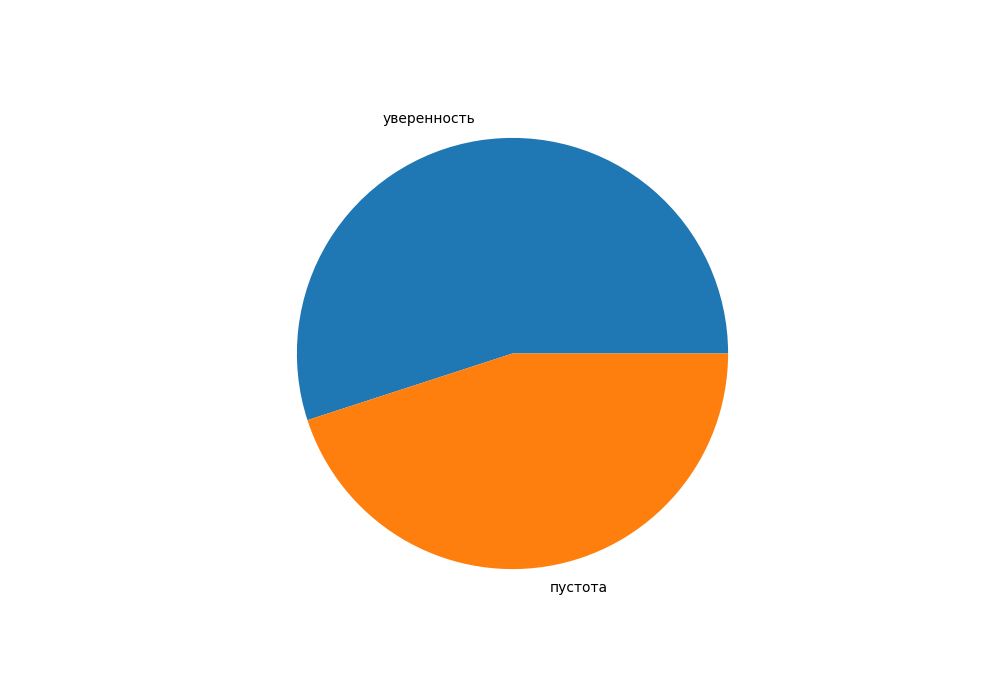
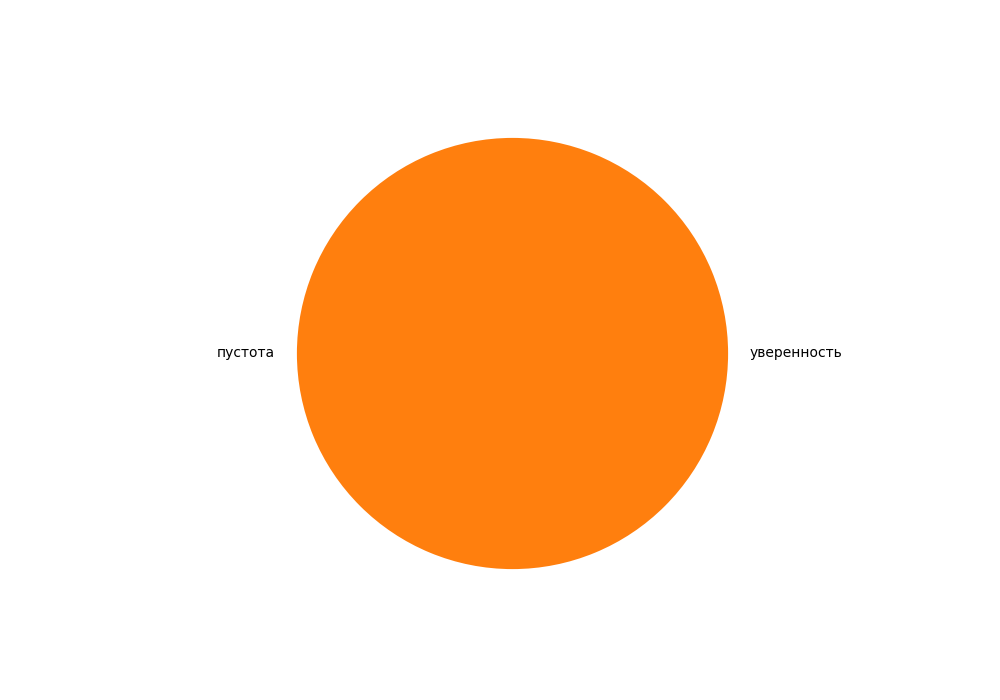
бебра

Changed region(s): [[0.217, 0.18, 0.837, 0.6], [0.372, 0.15, 0.465, 0.18]]

diff --git a/bot.py b/bot.py
@@ -25,14 +25,16 @@ def start(message):
     #get username
     global username
     username=str(message.chat.id)
-    c.push(username,[currentQuestion,ISum])
 
-    bot.send_message(message.chat.id,"Привет! Я бот-психолог, я хочу помочь тебе решить все твои проблемы и разобраться в себе.")
+    bot.send_message(message.chat.id,"Привет, "+message.from_user.first_name+
+                     "! Я бот-психолог, я хочу помочь тебе решить все твои проблемы и разобраться в себе.")
     bot.send_message(message.chat.id,"Для начала пройди небольшой тест."
-                                     "На все вопросы выводите число от 0 до 6, где 0 означает, что изложенная позиция Вам совершенно не подходит,а 6 что Вы полностью согласны с вышеуказанным")
+                                     "На все вопросы отвечай числом от 0 до 6, где 0 означает, что изложенная позиция тебе совершенно не подходит,"
+                                     "а 6 что ты полностью согласен с вышеуказанным")
 
     #отправляем текущий вопрос
-    bot.send_message(message.chat.id,t[c.put(str(message.chat.id))[0]])
+    bot.send_message(message.chat.id,t[0])
+    c.push(username, [currentQuestion+1, ISum])
 
 
 #принимаем ответ
@@ -40,30 +42,29 @@ def start(message):
 def lalal(message):
     global ISum
     global currentQuestion
-
+    currentQuestion=c.put(str(message.chat.id))[0]
+    ISum=c.put(str(message.chat.id))[1]
     #если не все вопросы заданы
-    if(c.put(str(message.chat.id))[0]<=len(t)-2):
+    if(currentQuestion<=len(t)-2):
         #проверяем является ли ответ числом
         try:
             text=int(message.text)
-            if (text):
-                    #если да, тогда смотрим входит ли он в диапозон от 0 до 6
-                    if (0<=text<= 6):
-                        #увеличиваем результат и счетчик вопросов
-                        print(c.put(str(message.chat.id))[0],c.put(str(message.chat.id))[1])
-                        c.push(str(message.chat.id),[c.put(str(message.chat.id))[0],c.put(str(message.chat.id))[1]+text])
-                        print(c.put(str(message.chat.id))[0], c.put(str(message.chat.id))[1])
-                        c.push(str(message.chat.id),[c.put(str(message.chat.id))[0]+1,c.put(str(message.chat.id))[1]])
-                        bot.send_message(message.chat.id, t[c.put(str(message.chat.id))[0]])
-                    #если не входит повторяем текущий вопрос
+            #если да, тогда смотрим входит ли он в диапозон от 0 до 6
+            if (0<=text<= 6):
+                #увеличиваем результат и счетчик вопросов
+                ISum+=text
+                c.push(str(message.chat.id),[currentQuestion,ISum])
+                c.push(str(message.chat.id),[currentQuestion+1,ISum])
+                bot.send_message(message.chat.id, t[currentQuestion])
+            #если не входит повторяем текущий вопрос
             else:
-                        bot.send_message(message.chat.id, "шкала от 0 до 6")
-                        bot.send_message(message.chat.id, t[c.put(str(message.chat.id)[0])])
+                bot.send_message(message.chat.id, "шкала от 0 до 6")
+                bot.send_message(message.chat.id, t[currentQuestion-1])
 
         except:
             #если ответ не является числом, говорим об этом юзеру
             bot.send_message(message.chat.id, "Я тебя не понимаю")
-            bot.send_message(message.chat.id, t[c.put(str(message.chat.id))[0]])
+            bot.send_message(message.chat.id, t[currentQuestion-1])
 
 
     else:
@@ -71,6 +72,8 @@ def lalal(message):
         diagramGenerator.Diagram().bebra([ISum, 100 - ISum])
         photo=open("bebra.png","rb")
         bot.send_photo(message.chat.id,photo)
+
+
         bot.send_message(message.chat.id,"Совет: если вы будете увереннее в себе, то сможете достичь большего")
 
         #обнуляем текущий вопрос и удаляем тест из списка ожидающих прохождение
